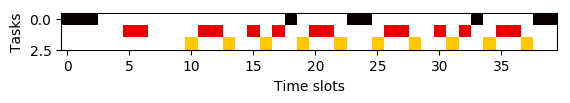
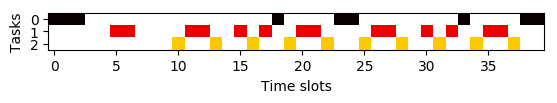
display improvement

diff --git a/OutputFactory.py b/OutputFactory.py
@@ -23,7 +23,8 @@ class OutputFactory ():
     def generateFigure(matrix):
         fig = plt.figure();
         ax = fig.add_subplot(1,1,1);
-        ax = fig.add_subplot(1,1,1);
+        ax.set_aspect('equal');
+        plt.yticks(range(0, len(matrix)));
         plt.imshow(matrix, interpolation='nearest', cmap=plt.cm.get_cmap('hot_r'));
         plt.xlabel('Time slots');
         plt.ylabel('Tasks');
